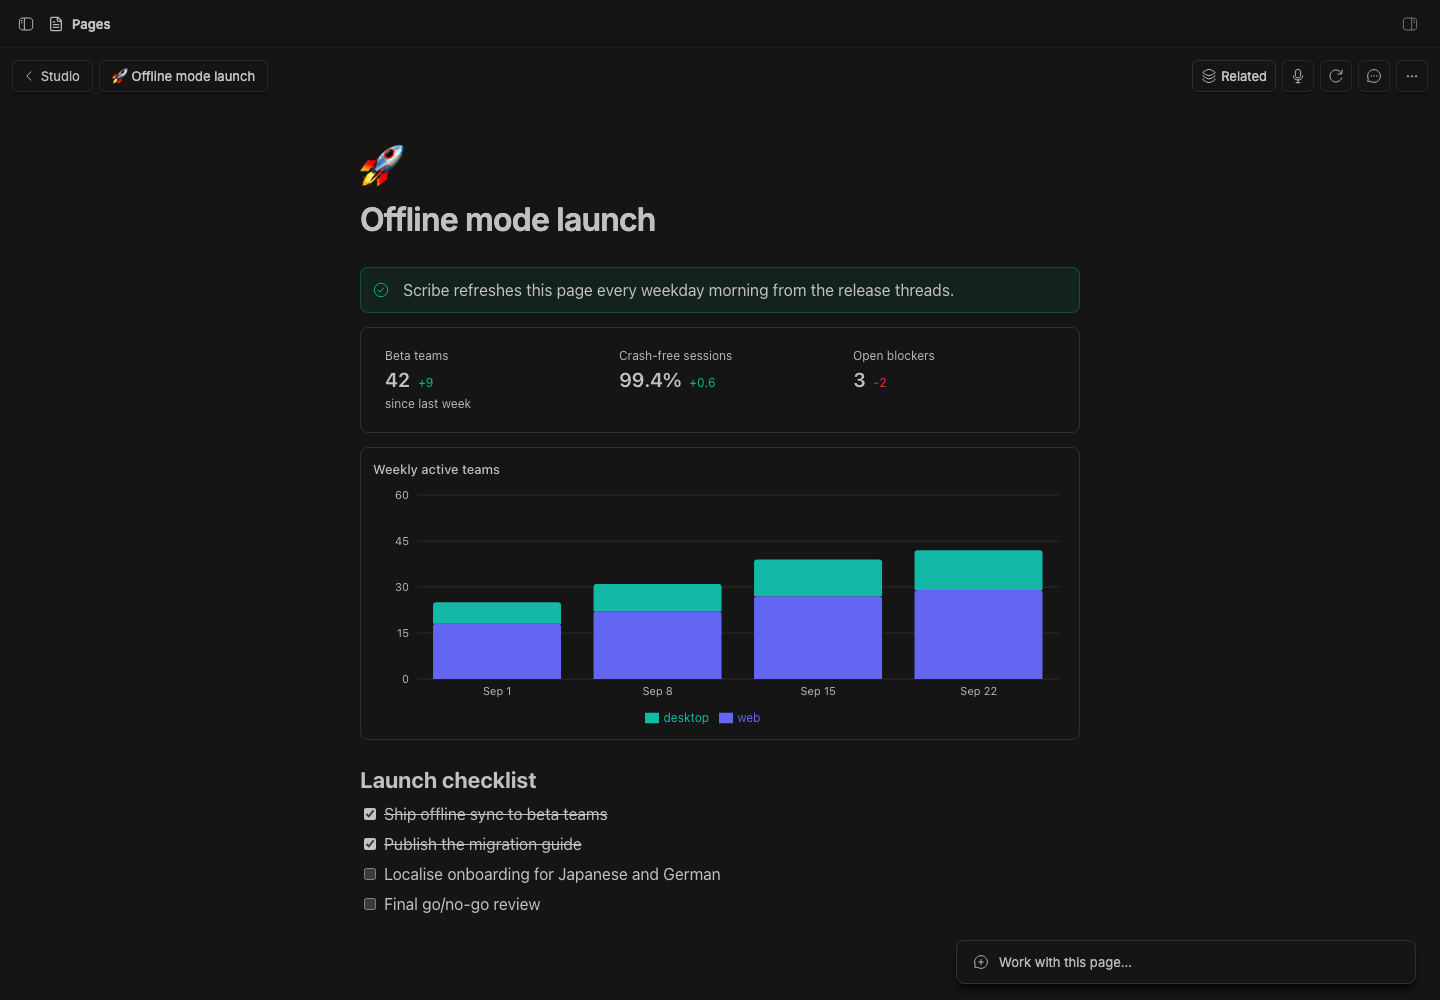
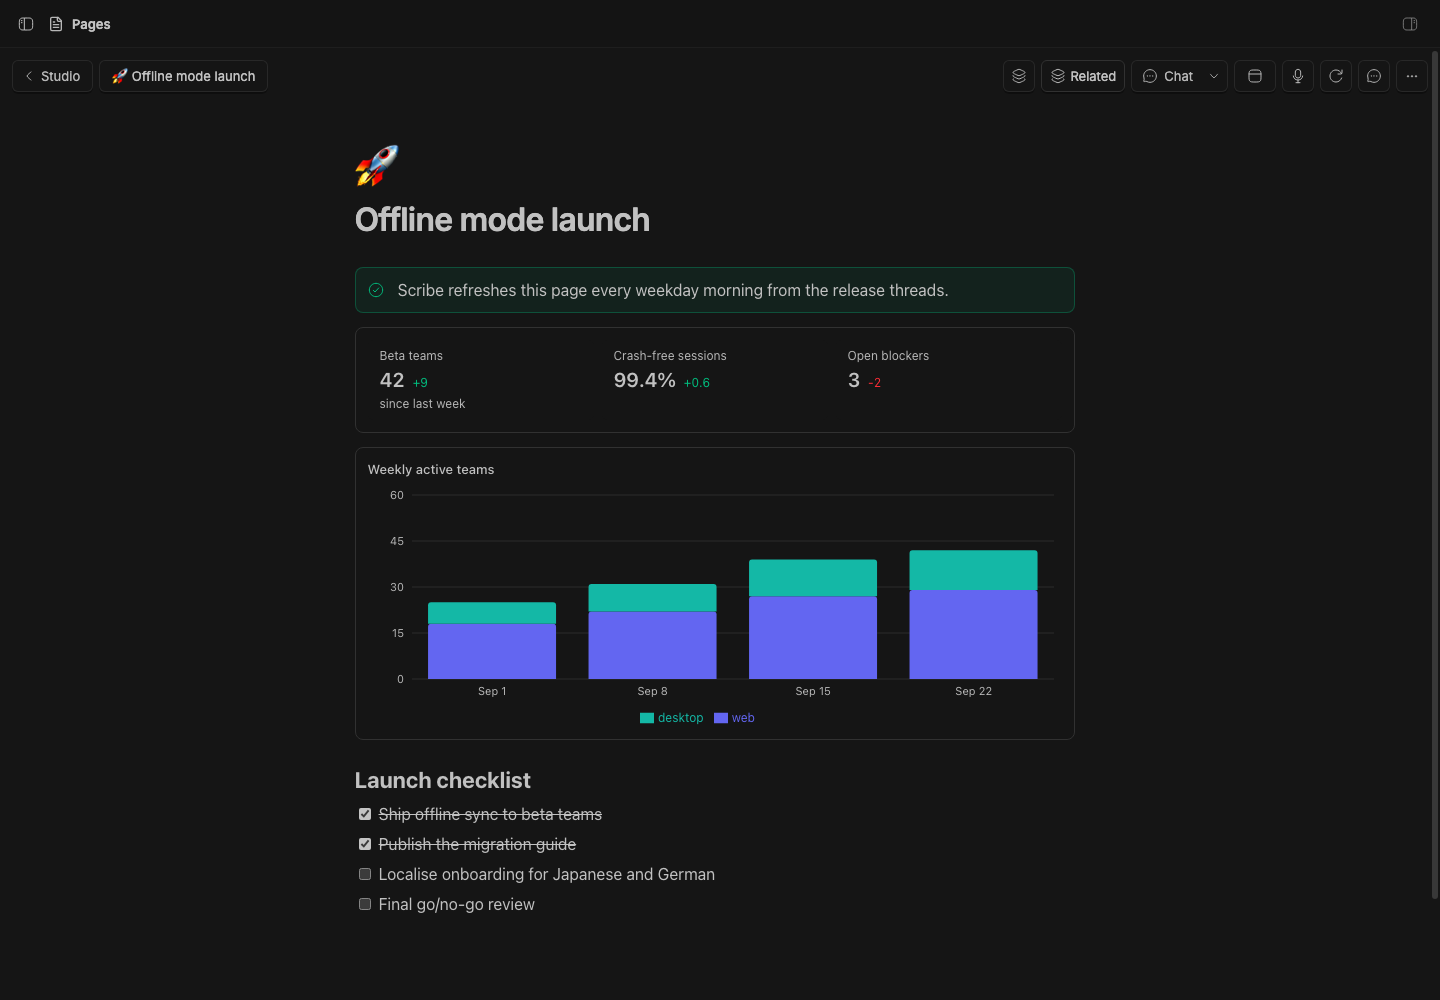
Verify standalone Pages chat on desktop and phone

diff --git a/packages/bb-studio-pages/styles.css b/packages/bb-studio-pages/styles.css
@@ -250,14 +250,14 @@
   }
 }
 
-/* The chat card's title falls back when BB hasn't loaded the thread yet. */
+/* Activity entries fall back while BB loads their thread titles. */
 .pages-thread-title:empty::before,
 .pages-thread-title > :empty::before {
   content: "Chat";
   color: var(--muted-foreground);
 }
 
-/* The floating chat card is the composer's frame, so BB's prompt box inside
+/* The conversation dialog is the composer's frame, so BB's prompt box inside
    it drops its own border and shadow. */
 .pages-composer form {
   border-color: transparent;

diff --git a/packages/bb-studio-pages/README.md b/packages/bb-studio-pages/README.md
@@ -28,10 +28,25 @@ The launch page is open. It holds:
 - a stacked bar chart of weekly active teams
 - a launch checklist with two items done
 
-At the top left are the **Pages** back pill and the breadcrumb. At the top
-right are the **Dictate**, **Version history**, **Comments** and page menu
+At the top left are the **Studio** back pill and the breadcrumb. At the top
+right are **Chat**, **Dictate**, **Version history**, **Comments** and page menu
 buttons. **Dictate** appears because Talk is installed in the staged app.
-The **Work with this page…** composer floats at the bottom right.
+
+![Standalone Pages Chat with its retained draft](assets/standalone-chat.png)
+
+The standalone Chat check temporarily disables Studio Chat in the isolated
+staged app. It resumes a legacy page conversation without creating another
+thread, then opens **New conversation**, writes a draft, and verifies it
+survives closing and reopening. The same checks pass in the
+[phone drawer](assets/standalone-chat-mobile.png), with every composer control
+inside the viewport. The seeded thread is scheduled 30 days ahead, so no
+agent runs. The capture restores Studio Chat and removes its fixtures.
+
+```sh
+BB_CAPTURE_STANDALONE_CHAT=1 \
+  BB_CAPTURE_ONLY=pages-standalone-chat,pages-standalone-chat-mobile \
+  node scripts/capture-plugin-screenshots.mjs --plugin pages
+```
 
 ![The Pages Comments panel with a microphone in the reply box](assets/comments.png)
 
@@ -110,16 +125,16 @@ afterwards.
 - **Projects and nesting.** Pages belong to a project or are global, and
   nest to any depth, with a breadcrumb back up. Give a page an emoji icon,
   move it, archive it, or delete it from its ⋯ menu.
-- **Work with this page.** The box at the bottom of every page is BB's
-  new-thread composer. Sending starts an agent thread in the page's project
-  that gets the page as context. The thread opens in a card on the page,
-  and you can minimize it or open it as a full thread. The full thread's
-  header shows the page's name, which takes you back to the page with the
-  chat open. This works without Studio Teams. With
-  [Float](../bb-studio-float) installed, page chats open in Float windows
-  instead of the card, so they stay open while you move around. With
-  [Studio Chat](../bb-studio-chat) installed, its "Work with this…" bar
-  takes over the box.
+- **Chat about a page.** **Chat** continues the page's conversation or opens
+  BB's new-thread composer. **New conversation** starts another. Sending
+  starts an agent thread in the page's project with the page as context.
+  Conversations use the shared companion system: workbench on a capable BB
+  host, Float on stable hosts without that capability, or ordinary thread
+  navigation without Float. Existing page chats and links still work.
+  [Studio Chat](../bb-studio-chat) provides the suite-wide item links and
+  conversation picker when installed. Standalone Pages uses the same
+  destination and preserves its existing composer drafts. This works
+  without Studio Teams.
 - **Version history.** Pages saves a version before an agent's or bot's first
   edit in a while. You can save one yourself and restore any version, and the
   current page is saved before a restore.

diff --git a/packages/bb-studio-pages/skills/pages/SKILL.md b/packages/bb-studio-pages/skills/pages/SKILL.md
@@ -97,10 +97,12 @@ GraphQL, and XML.
 
 ## Working from a page
 
-The "Work with this page…" box at the bottom of a page is BB's new-thread
-composer. Sending starts a normal agent thread in the page's project, shown
-in a card on the page. The thread also appears in the sidebar, and its header
-links back to the page. That thread's first message carries the page id and
+The page header's Chat action continues its conversation or opens BB's
+new-thread composer. New conversation starts another. Sending starts a
+normal agent thread in the page's project, shown through the shared
+workbench/Float companion system or ordinary thread navigation when Float
+is absent. Existing page chat links still work. The thread also appears in
+the sidebar, and its header links back to the page. Its first message carries the page id and
 its Markdown with block ids as hidden context. The copy can go stale as the
 user types, so read the page again right before you edit it with
 `pages_edit`. This works without Studio Teams.
@@ -123,7 +125,7 @@ with its configured model and reasoning level.
   now** runs it immediately.
 
 Requests show in the page's **Activity** menu as queued, working, done, or
-failed. Picking one opens its thread in a card on the page.
+failed. Picking one opens its thread through the shared companion system.
 
 When you are a bot handling one of these requests, follow its instructions:
 edit with `pages_edit`, then reply in the named comment thread with

diff --git a/docs/unified-workbench.md b/docs/unified-workbench.md
@@ -134,10 +134,18 @@ card is removed; legacy page chat routes and activity entries open the shared
 companion destination, with ordinary thread navigation when Float is absent.
 Existing page chats and the `pages:<id>` draft key remain in use. Pages' 80
 tests pass, including continuation, project/context forwarding, error retries,
-and stale submissions. Standalone live verification is the next check.
+and stale submissions. The stable BB 0.44.0 standalone captures at pushed
+commit b070150 pass with Studio Chat temporarily disabled: the actual legacy
+page chat continues without duplication, a draft survives closing and
+reopening, and the phone drawer keeps all composer buttons in the viewport.
+The scheduled fixture never runs an agent. Studio Chat is restored and the
+fixture thread/pages are deleted after capture.
+The phone page header is still crowded; the remaining compact-layout audit
+must cover item-header navigation and overflow menus across the suite, beyond
+the verified conversation drawer.
 
 Remaining delivery includes native host live verification and release,
-the SDK/CLI placement controller, Pages standalone migration, embedded composer
+the SDK/CLI placement controller, embedded composer
 targeting, all suite entry points, compact behavior,
 staged live captures, documentation and marketplace checks, and the
 requirement-by-requirement completion audit. This goal stays active
